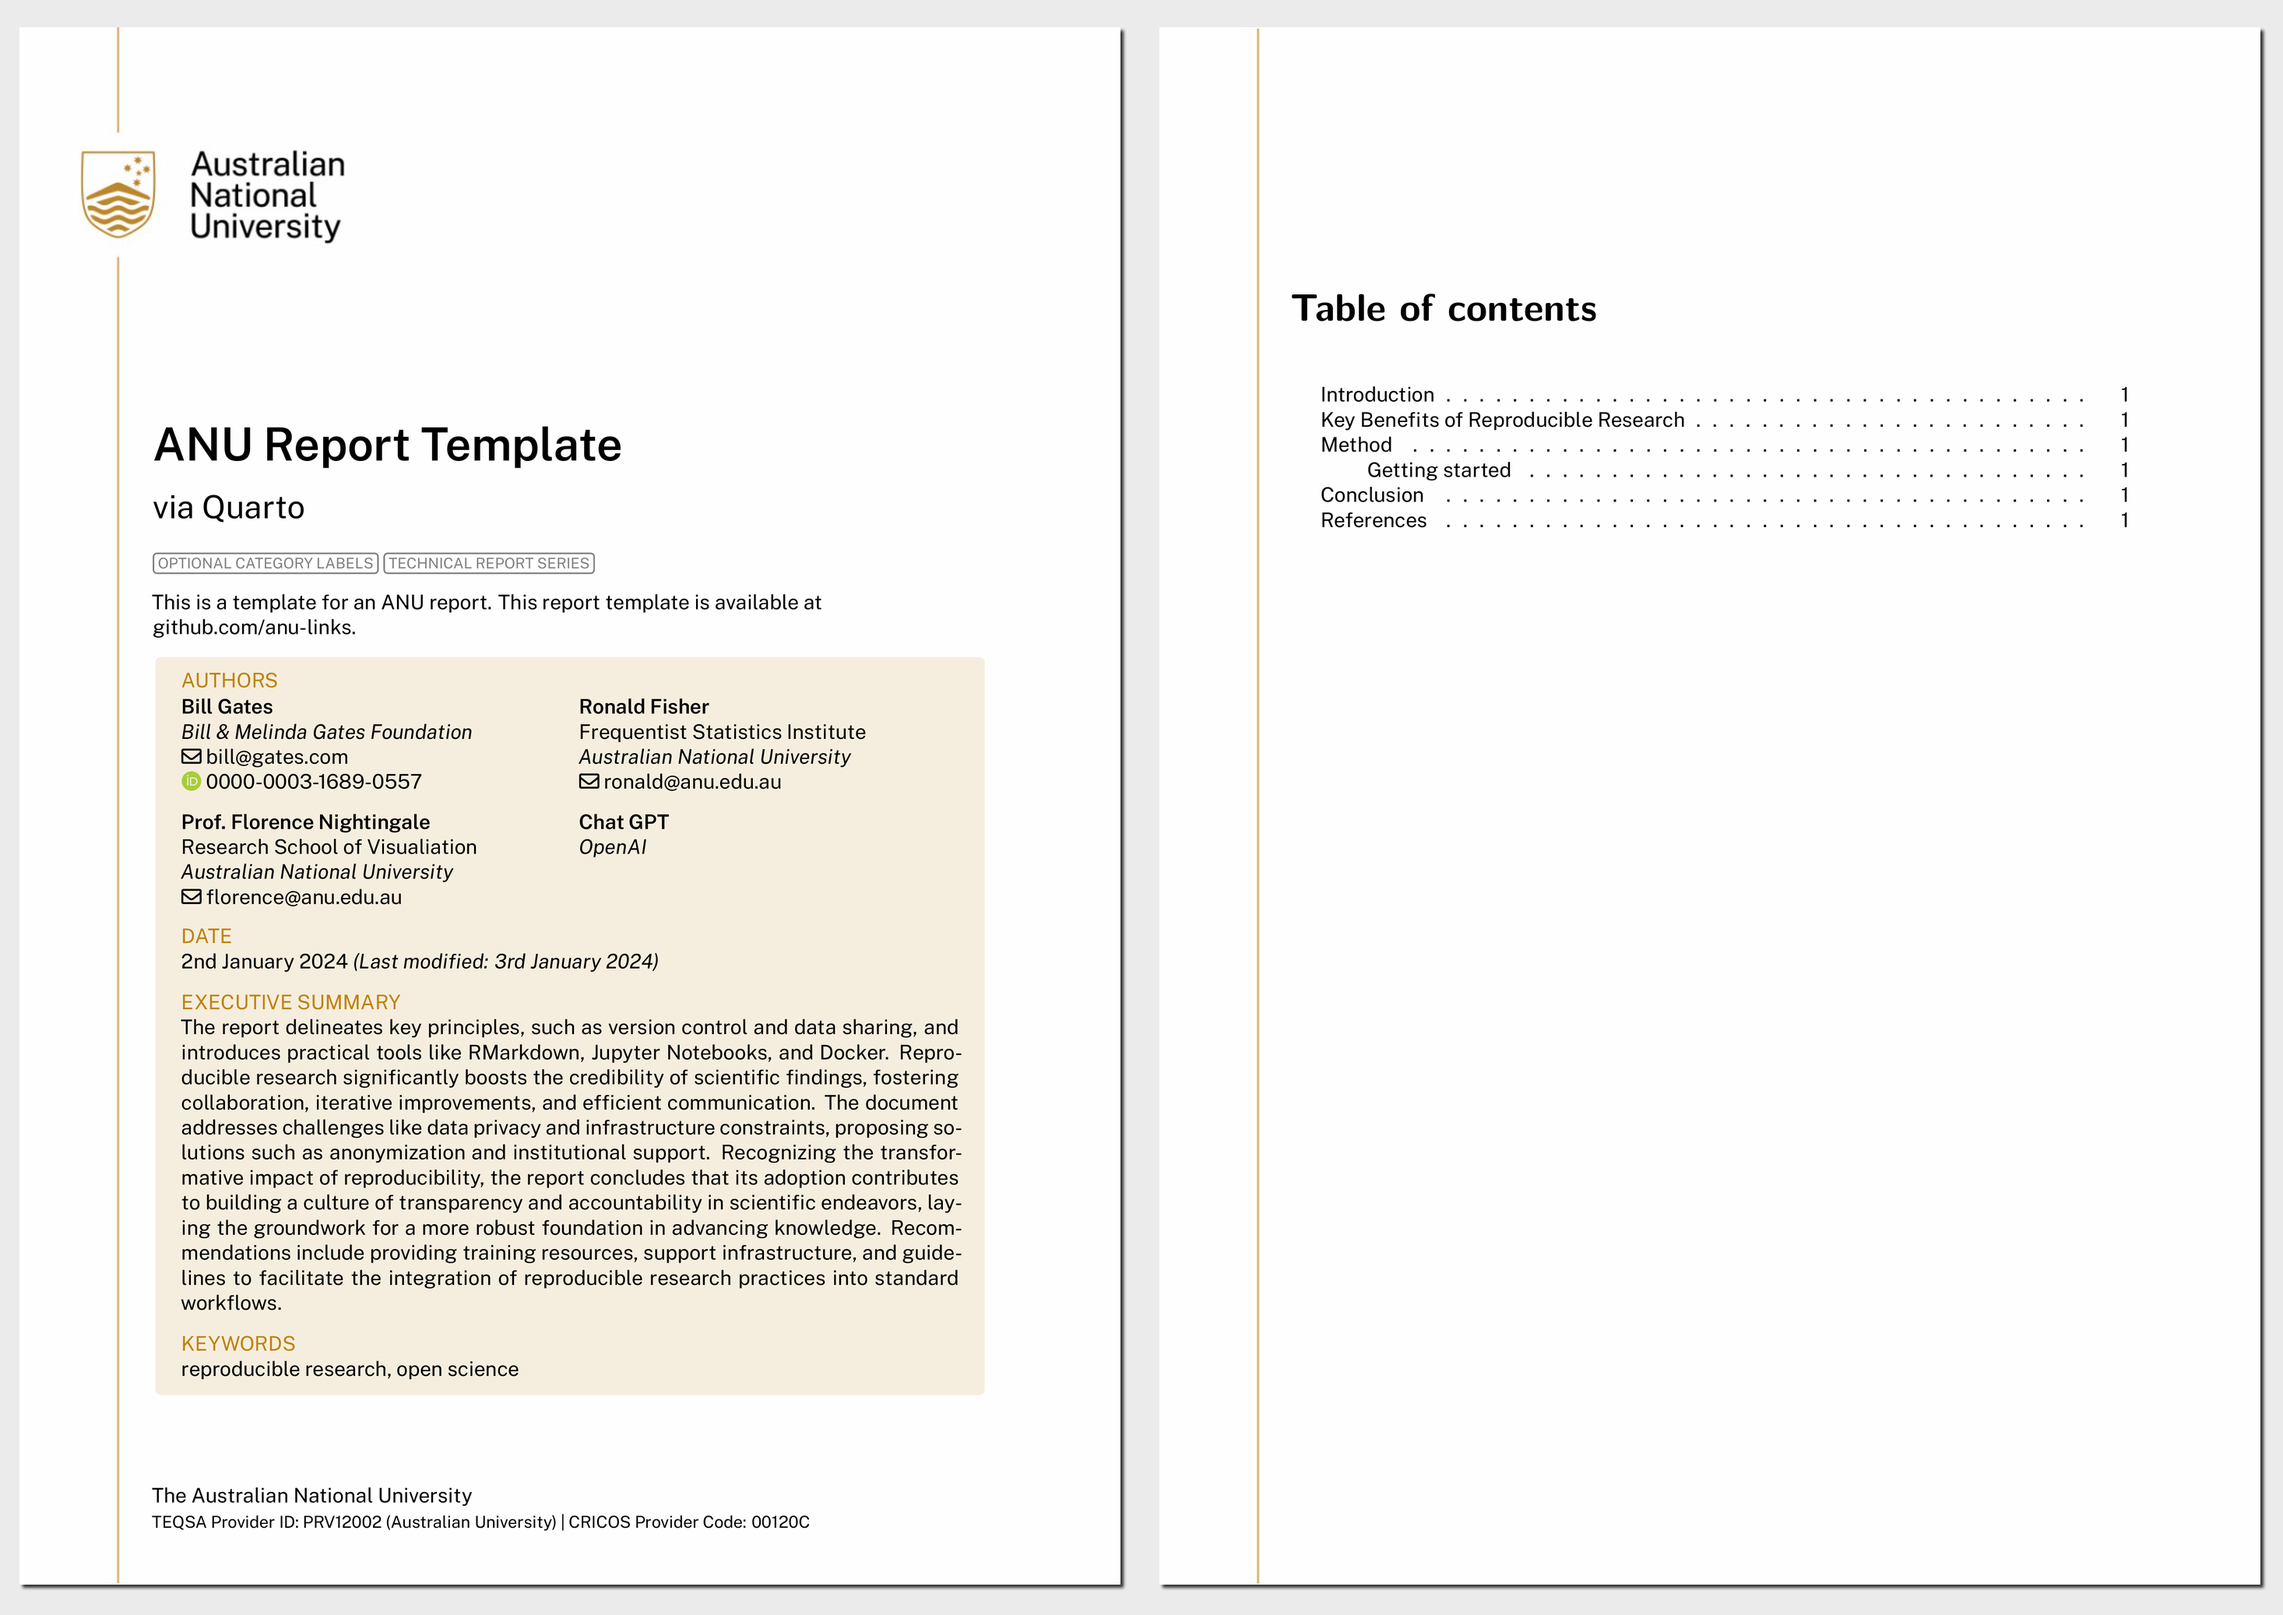
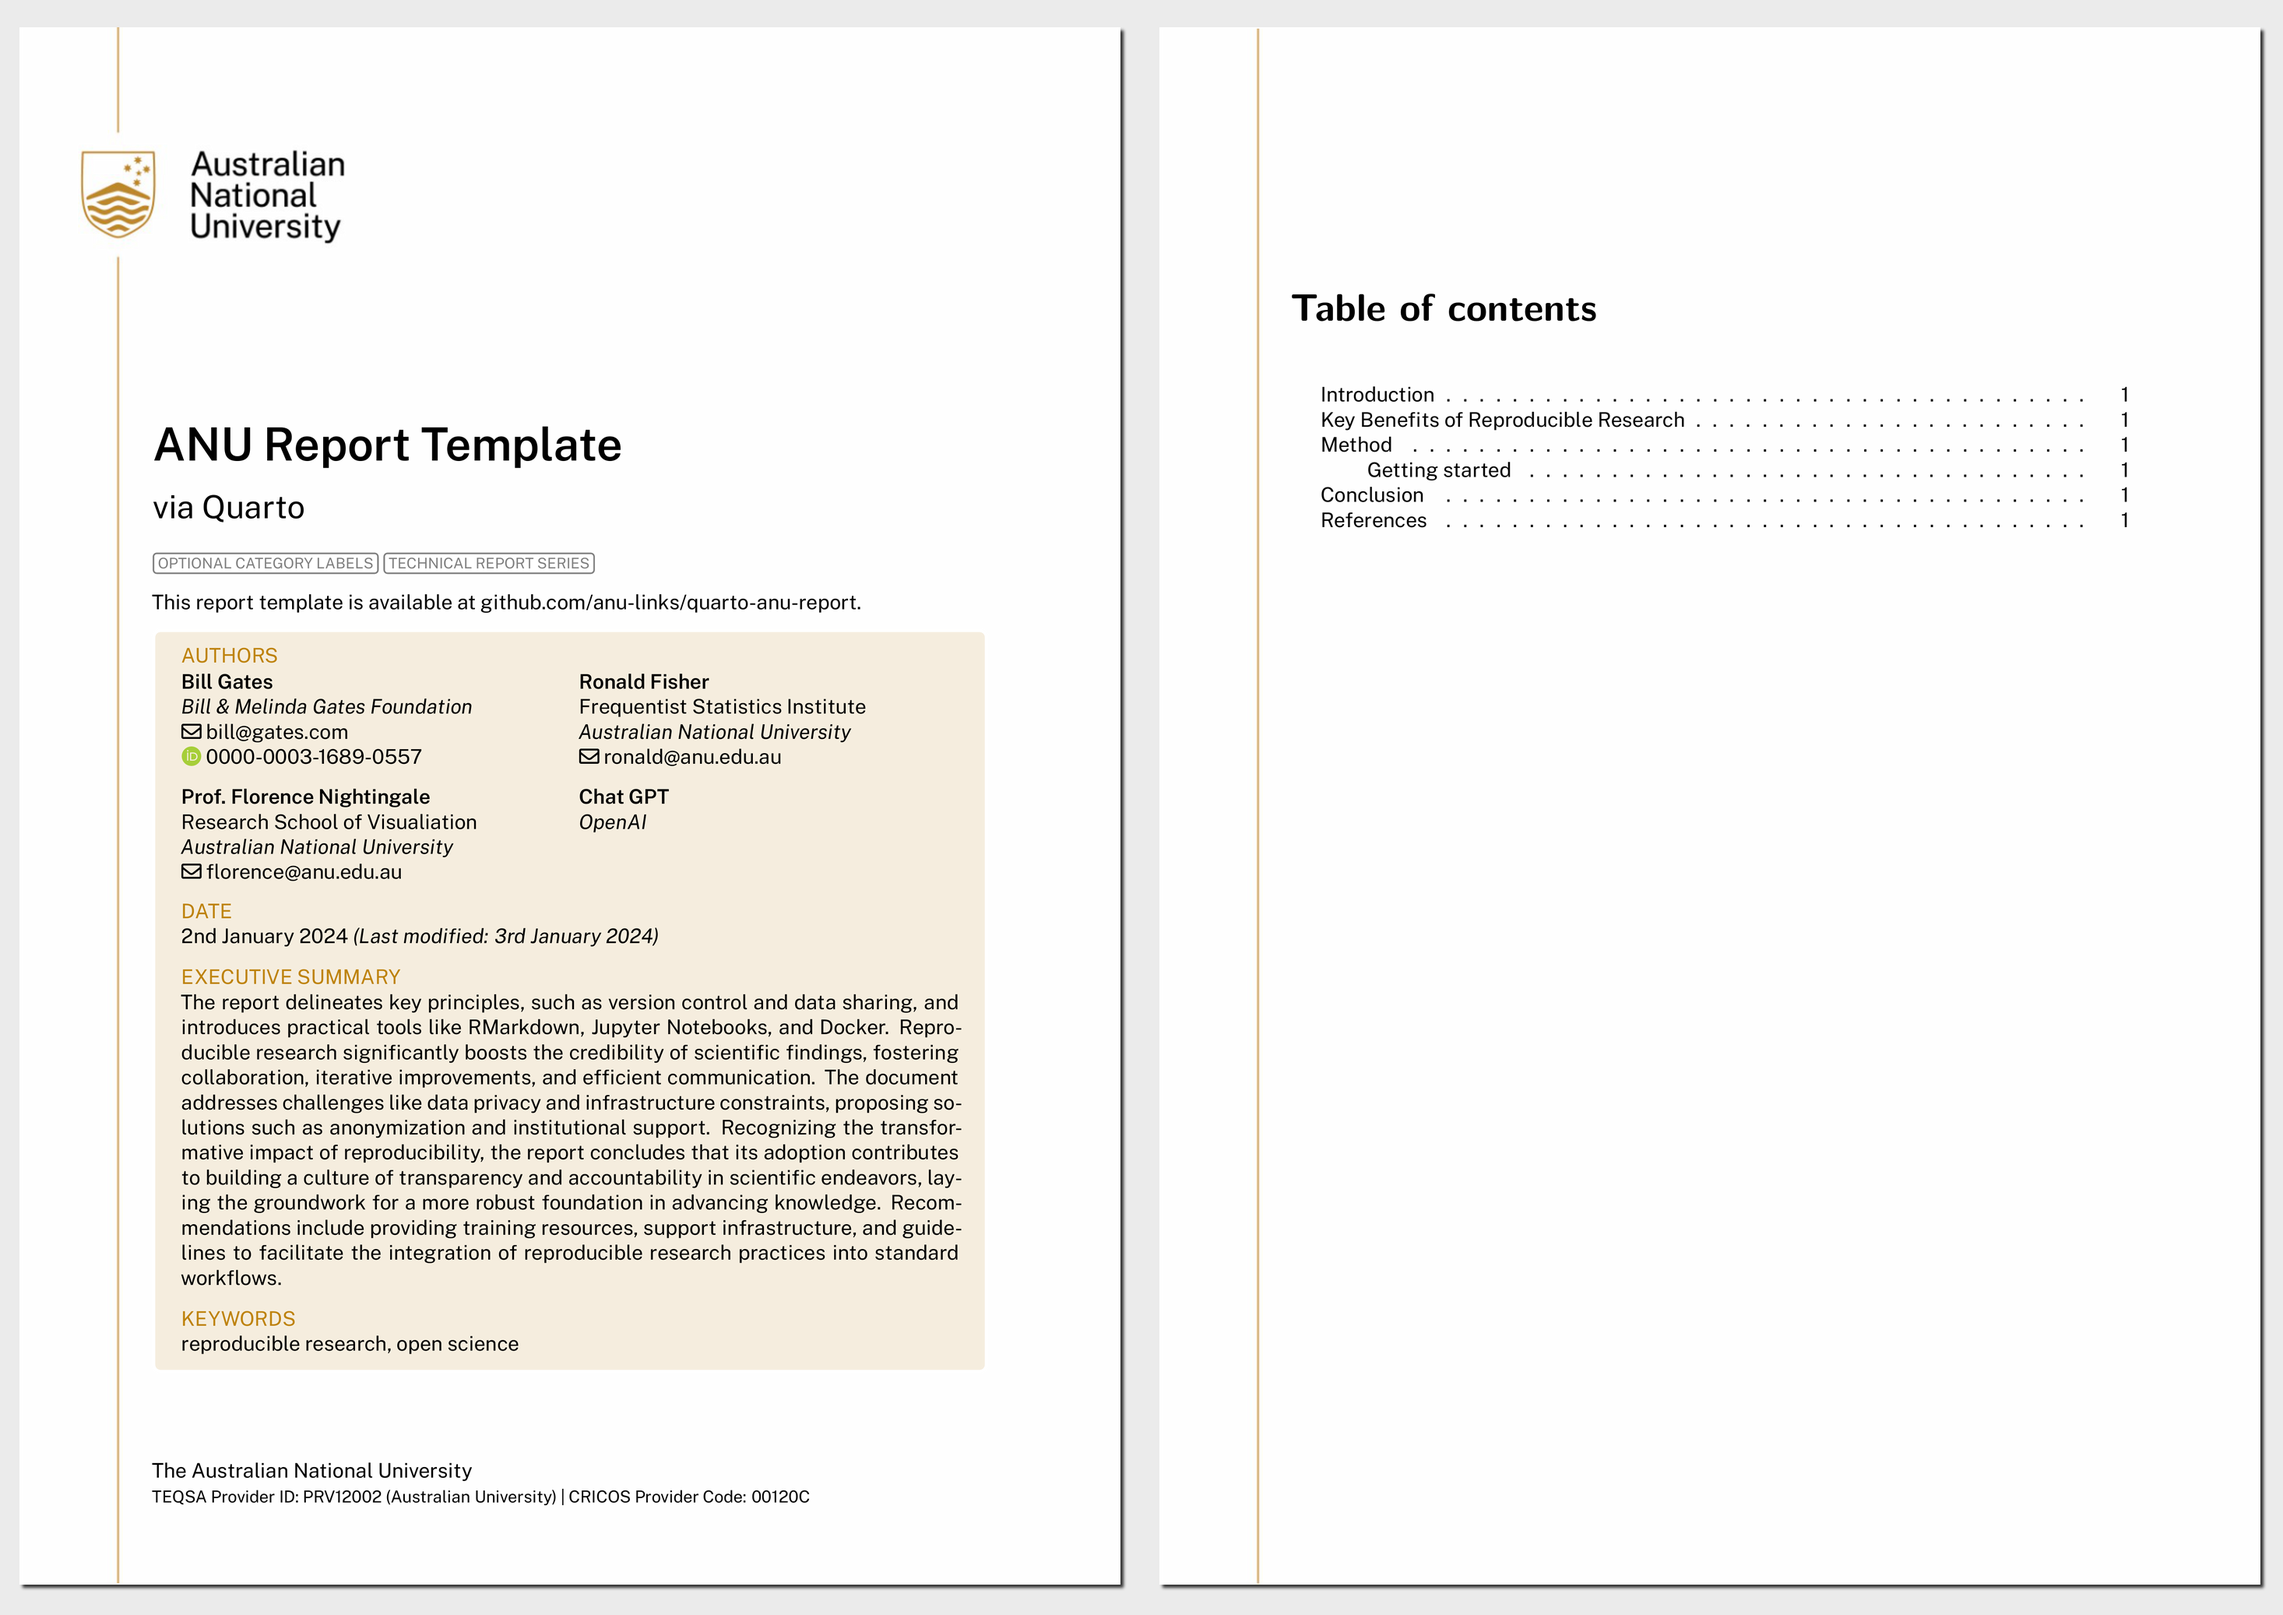
change abstract to summary, update date format in html

Changed region(s): [[0.0621, 0.3703, 0.4345, 0.864], [0.0621, 0.8949, 0.3414, 0.9566]]

diff --git a/_extensions/anu-report/assets/title-block.html b/_extensions/anu-report/assets/title-block.html
@@ -38,16 +38,10 @@ $if(by-affiliation/first)$
     <p class="author">$_title-meta-author.html()$</p>
     $for(by-author.affiliations)$
     <p class="affiliation">
-      $if(it.url)$
-      <a href="$it.url$">
-      $endif$
       $if(it.department)$
       <p class="department">$it.department$</p>
       $endif$
       <p class="affiliation">$it.name$</p>
-      $if(it.url)$
-      </a>
-      $endif$
     </p>
     $endfor$
   </div>
@@ -73,16 +67,11 @@ $endif$
   <div>
     <div class="quarto-title-meta-heading">$labels.published$</div>
     <div class="quarto-title-meta-contents">
-      <p class="date">$date$</p>
-    </div>
-  </div>
-  $endif$
-
-  $if(date-modified)$
-  <div>
-    <div class="quarto-title-meta-heading">$labels.modified$</div>
-    <div class="quarto-title-meta-contents">
-      <p class="date-modified">$date-modified$</p>
+      <p class="date">$date$
+      $if(date-modified)$
+      <i class="date-modified">(Last modified: $date-modified$)</i>
+      $endif$
+      </p>
     </div>
   </div>
   $endif$
@@ -99,11 +88,12 @@ $endif$
   $endif$
 </div>
 
-$if(abstract)$
+$if(hide-summary)$
+$elseif(summary)$
 <div>
   <div class="abstract">
-    <div class="block-title">$labels.abstract$</div>
-    $abstract$
+    <div class="block-title">$summary-title$</div>
+    $summary$
   </div>
 </div>
 $endif$

diff --git a/_extensions/anu-report/_titlepage.tex b/_extensions/anu-report/_titlepage.tex
@@ -67,9 +67,10 @@ $endif$
 \vspace{3mm}
 $endif$
 
-$if(abstract)$
-\textcolor{anugold}{\MakeUppercase{$labels.abstract$}}\\
-$abstract$
+$if(hide-summary)$
+$elseif(summary)$
+\textcolor{anugold}{\MakeUppercase{$summary-title$}}\\
+$summary$
 $endif$
 \vspace{3mm}
 
